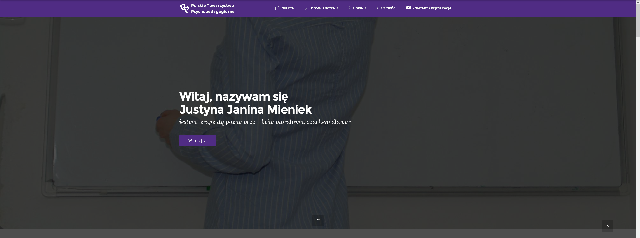
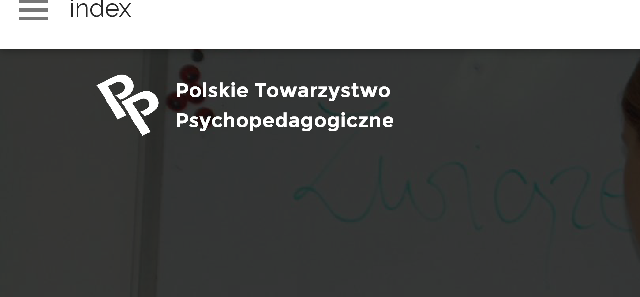
a

diff --git a/index.html b/index.html
@@ -20,9 +20,6 @@
   <link rel="stylesheet" href="assets/animate.css/animate.min.css">
   <link rel="stylesheet" href="assets/socicon/css/styles.css">
   <link rel="stylesheet" href="assets/dropdown/css/style.css">
-  <link rel="stylesheet" href="https://netdna.bootstrapcdn.com/font-awesome/4.0.3/css/font-awesome.css">
-  <link rel="stylesheet" href="assets/social-feed-plugin/jquery.socialfeed.css">
-  <link rel="stylesheet" href="assets/social-feed-plugin/style.css">
   <link rel="stylesheet" href="assets/theme/css/style.css">
   <link rel="stylesheet" href="assets/mobirise-gallery/style.css">
   <link rel="stylesheet" href="assets/mobirise/css/mbr-additional.css" type="text/css">
@@ -31,21 +28,6 @@
   
 </head>
 <body>
-
-<!-- Google Analytics -->
-<script>
-  (function(i,s,o,g,r,a,m){i['GoogleAnalyticsObject']=r;i[r]=i[r]||function(){
-  (i[r].q=i[r].q||[]).push(arguments)},i[r].l=1*new Date();a=s.createElement(o),
-  m=s.getElementsByTagName(o)[0];a.async=1;a.src=g;m.parentNode.insertBefore(a,m)
-  })(window,document,'script','https://www.google-analytics.com/analytics.js','ga');
-
-  ga('create', 'UA-50260950-6', 'auto');
-  ga('send', 'pageview');
-
-</script>
-<!-- /Google Analytics -->
-
-
 <section id="menu-0">
 
     <nav class="navbar navbar-dropdown bg-color transparent navbar-fixed-top">
@@ -56,7 +38,7 @@
 
                     <div class="navbar-brand">
                         <a href="https://www.psychopedagog.eu" target="_blank" class="navbar-logo"><img src="assets/images/logodostron-130x128.png" alt="Mobirise"></a>
-                        <a class="navbar-caption" href="https://mobirise.com">Polskie Towarzystwo <br>Psychopedagogiczne</a>
+                        <a class="navbar-caption" href="https://www.psychopedagog.eu">Polskie Towarzystwo <br>Psychopedagogiczne</a>
                     </div>
 
                 </div>
@@ -79,7 +61,7 @@
 
 </section>
 
-<section class="engine"><a rel="external" href="https://mobirise.com">Website Generator</a></section><section class="mbr-section mbr-section-hero mbr-section-full mbr-parallax-background mbr-section-with-arrow mbr-after-navbar" id="header5-l" style="background-image: url(assets/images/2-2000x1332.jpg);">
+<section class="engine"><a rel="external" href="https://mobirise.com">Mobirise</a></section><section class="mbr-section mbr-section-hero mbr-section-full mbr-parallax-background mbr-section-with-arrow mbr-after-navbar" id="header5-l" style="background-image: url(assets/images/2-2000x1332.jpg);">
 
     <div class="mbr-overlay" style="opacity: 0.7; background-color: rgb(0, 0, 0);"></div>
 
@@ -293,7 +275,7 @@
 
 
               <div class="mbr-table-cell mbr-left-padding-md-up mbr-valign-top col-md-7 image-size" style="width: 50%;">
-                  <div class="mbr-figure"><a href="http://www.psychopedagog.eu"><img src="assets/images/logo-ptpp-biale-1-1400x1345.png"></a></div>
+                  <div class="mbr-figure"><a href="http://www.psychopedagog.eu"><img src="assets/images/logo-ptpp-biale-1400x1345.png"></a></div>
               </div>
 
             </div>
@@ -302,7 +284,7 @@
 
 </section>
 
-<section class="mbr-info mbr-info-extra mbr-section mbr-section-md-padding mbr-parallax-background" id="msg-box1-1y" style="background-image: url(assets/images/mbr-1-2000x1330-2.jpg); padding-top: 120px; padding-bottom: 120px;">
+<section class="mbr-info mbr-info-extra mbr-section mbr-section-md-padding mbr-parallax-background" id="msg-box1-1y" style="background-image: url(assets/images/landscape3.jpg); padding-top: 120px; padding-bottom: 120px;">
 
     <div class="mbr-overlay" style="opacity: 0.8; background-color: rgb(34, 34, 34);">
     </div>
@@ -320,7 +302,7 @@
                 </div>
 
                 <div class="mbr-table-cell col-md-4">
-                    <div class="text-xs-center"><a class="btn btn-primary" href="siatka/specjalisci.html"><span class="mbri-users mbr-iconfont mbr-iconfont-btn"></span>SIATKA SPECJALISTÓW</a></div>
+                    <div class="text-xs-center"><a class="btn btn-primary" href="http://www.psychopedago.eu/siatka/specjalisci.html"><span class="mbri-users mbr-iconfont mbr-iconfont-btn"></span>SIATKA SPECJALISTÓW</a></div>
                 </div>
             </div>
 
@@ -368,13 +350,6 @@
     </div>
 </section>
 
-<section class="mbr-social-feed loading" id="feed-1v" data-youtube="" data-facebook="" data-twitter="JustynaMieniek" data-google="" data-posts="2" style="background-color: rgb(255, 255, 255); padding-top: 0px; padding-bottom: 40px;">
-    
-    <img class="social-feed-container-loading" alt="" src="assets/images/loading.svg">
-    <div class="social-feed-container">
-    </div>
-</section>
-
 <section class="mbr-footer mbr-section mbr-section-md-padding" id="contacts3-1q" style="background-color: rgb(0, 0, 0); padding-top: 90px; padding-bottom: 90px;">
 
 
@@ -419,7 +394,7 @@
 
                 <form action="https://mobirise.com/" method="post" data-form-title="MESSAGE">
 
[2 lines of base64/hex data omitted]
 
                     
 
@@ -455,12 +430,6 @@
   <script src="assets/bootstrap-carousel-swipe/bootstrap-carousel-swipe.js"></script>
   <script src="assets/dropdown/js/script.min.js"></script>
   <script src="assets/touch-swipe/jquery.touch-swipe.min.js"></script>
-  <script src="assets/social-feed-plugin/codebird.min.js"></script>
-  <script src="assets/social-feed-plugin/moment.js"></script>
-  <script src="assets/social-feed-plugin/en-gb.js"></script>
-  <script src="assets/social-feed-plugin/doT.js"></script>
-  <script src="assets/social-feed-plugin/jquery.socialfeed.js"></script>
-  <script src="assets/social-feed-plugin/main.js"></script>
   <script src="assets/theme/js/script.js"></script>
   <script src="assets/mobirise-gallery/player.min.js"></script>
   <script src="assets/mobirise-gallery/script.js"></script>
